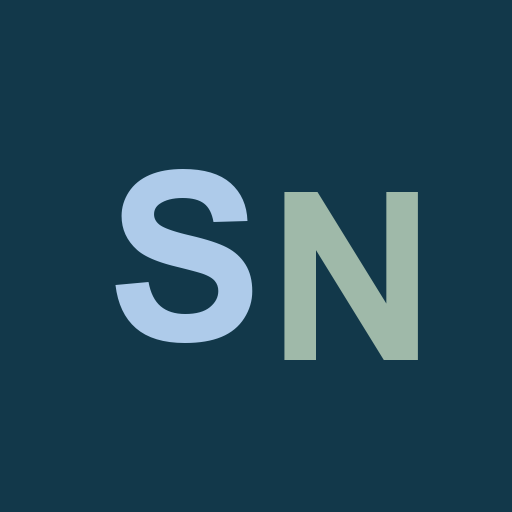
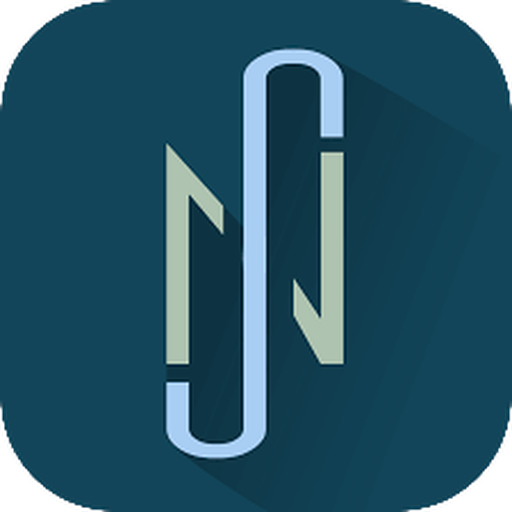
Ícone oficial do SurgeNote (logo1.png) no PWA e no cabeçalho

diff --git a/sw.js b/sw.js
@@ -1,6 +1,6 @@
 // Service worker do SurgeNote — rede primeiro (dados sempre frescos),
 // cache como reserva para abrir mesmo sem internet.
-const CACHE = "surgenote-v3";
+const CACHE = "surgenote-v4";
 const BASICO = ["dashboard_gestor_cirurgico.html", "index.html", "manifest.webmanifest", "icon-192.png"];
 
 self.addEventListener("install", (e) => {